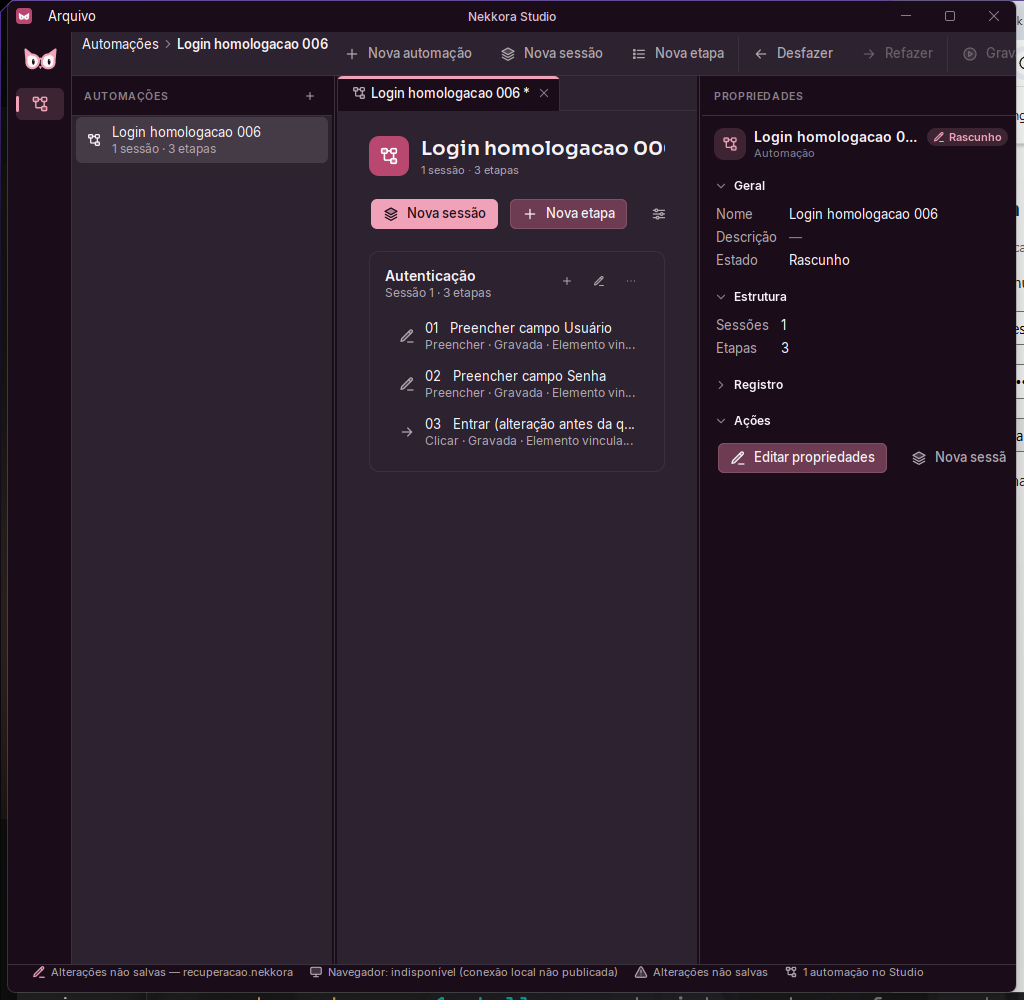
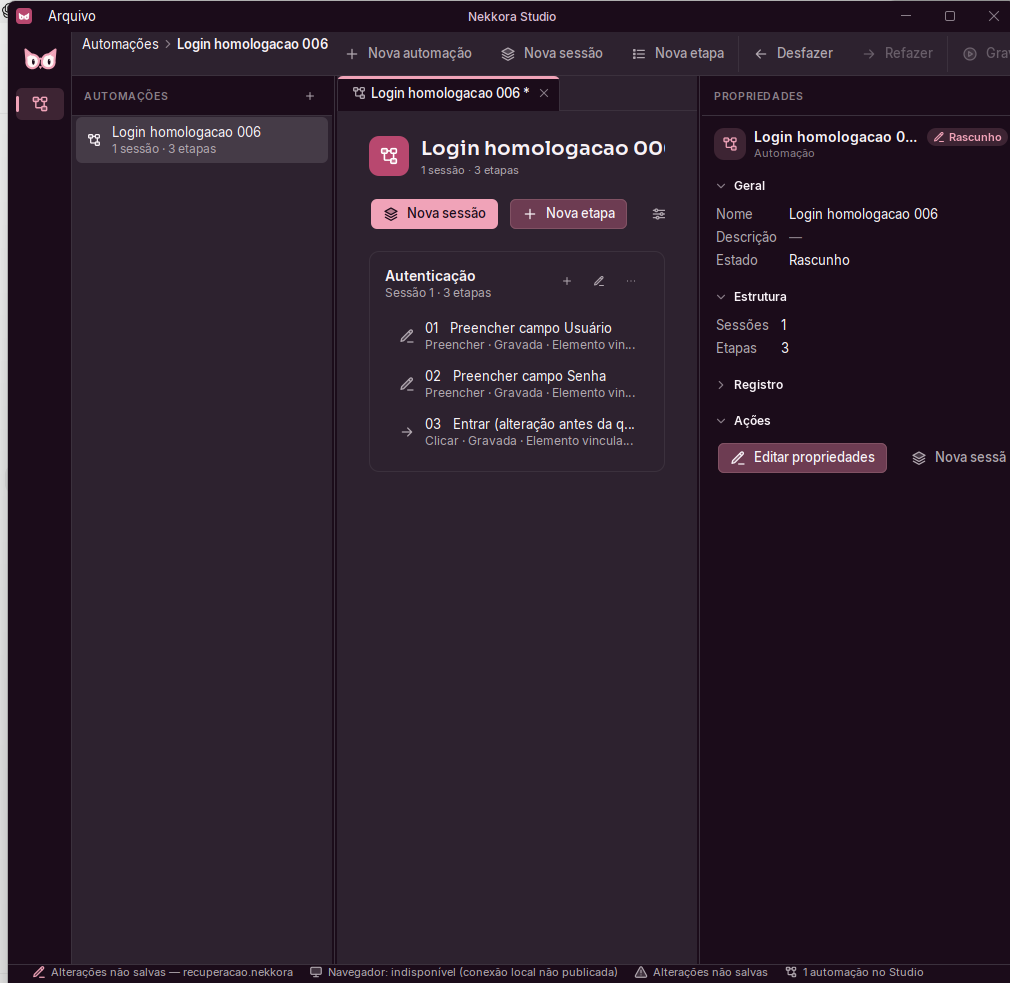
STUDIO-006 revisão 1: relatório (§22), docs e evidências da regressão final em db0e757
Windows 426/426; Linux 425 + 1 pulado (superusuário); homologação real 74/74
com encerramento real (Sair → Descartar, salvar e sair, reinício sem oferta).
Golden screenshots não regenerados; formato .nekkora inalterado. Capturas de
tela inteira recortadas para excluir a área de trabalho atrás do Studio.

diff --git a/reports/studio-006-final-report.md b/reports/studio-006-final-report.md
@@ -8,7 +8,7 @@
 | Branch | `feat/nekkora-studio-006` |
 | Baseline | `3dc6035cb6b9d80de04b48d640d4b868b213491d` (main, PRs #7 da CHROME-SECURITY-001 integrados) |
 | Extensão usada | árvore idêntica à `main` `2c7c06b` (checkout local em `e4a30aa`, `git diff e4a30aa 2c7c06b` vazio); **nenhuma alteração na extensão** |
-| Commit de código testado | `d2e0eec` (ver §17 e §18 para cada resultado) |
+| Commit de código testado | `db0e757` depois da revisão 1 do PR #8 (§22); a entrega original foi testada em `d2e0eec` (§17 e §18) |
 | Dados reais | **não utilizados** (D-S006-18); só páginas fictícias do laboratório local |
 | Merge | **não feito** — PR para revisão independente |
 
@@ -23,7 +23,11 @@ Commits da missão:
 | `cd9134d` | contrato versionado: schema, fixtures válidas congeladas e 18 inválidas |
 | `3ddff58` | barra de status sem sobreposição (defeito da homologação), rótulos "em memória", homologação real, README |
 | `d2e0eec` | teste de somente leitura declara a inaplicabilidade como superusuário (Linux em contêiner roda como root) |
-| (docs) | `docs/studio-006/` e este relatório |
+| `946ec7f` | `docs/studio-006/`, este relatório e as evidências |
+| `a864089` | **revisão 1**: recarregar transacional (P1-A), limpeza da recuperação antes de informar sucesso ou encerrar (P1-B), Salvar como confere o destino confirmado (P2) |
+| `a27f81f` | revisão 1: homologação real do encerramento (Sair → Descartar, salvar e sair, reinício sem oferta) |
+| `db0e757` | revisão 1: aviso "Encerrando o Studio" só quando o encerramento realmente espera (achado da homologação) |
+| (docs) | revisão 1: este relatório (§22), `docs/studio-006/` e evidências atualizados |
 
 ---
 
@@ -152,6 +156,8 @@ arquivo). [performance.md](../docs/studio-006/performance.md).
 
 ## 17. Testes
 
+> Resultados da **entrega original** (`d2e0eec`). Os resultados finais, depois da revisão 1, estão na §22.
+
 ### Regressão
 
 | Execução | Commit | Resultado |
@@ -208,6 +214,9 @@ Os 80 casos, cada um com o teste automatizado e/ou o passo da homologação que 
 
 ## 18. Homologação real
 
+> Execução da **entrega original** (`d2e0eec`, 60 verificações). A execução final, com 74 verificações em `db0e757`,
+> está na §22; as evidências em `reports/studio-006/evidence/` são as dessa execução final.
+
 Execução final: **60 verificações, 0 falhas**, sobre o build de `d2e0eec` (Windows 11, tela 1920×1032, JDK 21.0.12,
 Chrome for Testing 155.0.8059.39, extensão com árvore da `main` `2c7c06b`, Native Host instalado pelo script oficial
 `install-host.ps1`, laboratório local fictício `/lab/studio005/login-erro.html`). Diretório de dados e Bridge isolados
@@ -260,3 +269,88 @@ sem criptografia nem assinatura; textos do usuário podem conter dados pessoais;
 - Itens da SECURITY-RELEASE-001 continuam abertos (dados reais não liberados).
 
 Nenhuma funcionalidade da STUDIO-007 foi iniciada.
+
+## 22. Revisão 1 do PR #8
+
+A revisão técnica aprovou arquitetura, formato, reconstrução, evidências e privacidade e apontou dois P1 e um P2. Regra
+adotada: **uma operação de salvamento, descarte ou recarregamento não informa sucesso nem destrói o estado anterior
+antes de concluir as suas garantias de integridade.** O formato `.nekkora` não mudou (schema e fixtures 1.0.0 intactos).
+
+### Reprodução antes da correção
+
+Os testes novos foram escritos primeiro e executados sobre o código de `d2e0eec` (HEAD `946ec7f`, só documentação
+depois). Todos falharam pelo motivo apontado:
+
+| Ponto | Teste | Falha observada em `d2e0eec` |
+|---|---|---|
+| P1-A | `ProjectStudioTest.p1aRecarregarRecusadoPreservaWorkspace` | "A continua no workspace": esperado `[Consulta de Clientes, Cadastro de Produtos]`, obtido `[Cadastro de Produtos]` |
+| P1-A | `ProjectStudioTest.p1aRecarregarESalvarNaoSeSobrepoem` | recarregar durante um salvamento abriu a pergunta "Recarregar do arquivo?" |
+| P1-B A | `ProjectStudioTest.p1bDescartarESair` | "não encerra enquanto a limpeza não terminou": esperado 0 encerramentos, obtido 1 |
+| P1-B B | `ProjectStudioTest.p1bSalvarESairImediatamente` | sucesso informado com a fotografia superada (`…-g5.nekkora`) ainda no disco |
+| P1-B | `ProjectStudioTest.p1bFalhaAoApagarRecuperacao` | o aviso de sucesso não mencionava a fotografia não apagada |
+| P1-B | `ProjectRecoveryTest.superadaPorSalvamentoConfirmado` | fotografia anterior a um salvamento confirmado posterior foi oferecida |
+| P2 | `ProjectStudioTest.p2SobrescritaAlteradaDepoisDaConfirmacao` | esperado `CONFLICT`, obtido `SAVED`: a versão gravada por outro programa depois da confirmação foi sobrescrita |
+
+As corridas são reproduzidas com **barreiras controladas** nas `FileOps` de teste (gravação, leitura ou exclusão
+retidas por latch, ou exclusão com falha injetada), nunca só com `Thread.sleep`. Nos cenários de encerramento, o
+diretório de dados é copiado **no instante** em que o Studio encerraria a JVM, e outro Studio é aberto sobre essa
+cópia: é exatamente o que um novo processo encontraria.
+
+### Correções
+
+| Ponto | Correção |
+|---|---|
+| P1-A | `AutomationCatalog.replace` valida identidade e nome único **antes** de trocar e troca na mesma posição; `ProjectService.reload` só descarta o estado anterior (aba, histórico, estado, fotografias) depois da admissão. Qualquer recusa preserva automação, alterações não salvas, seleção, histórico, arquivo e recuperação. Recarregar é recusado durante salvamento ou outro recarregamento do mesmo projeto, sem perguntar nada; salvar, fechar e recarregar esperam um recarregamento em andamento (`ProjectState.reloading`) |
+| P1-B | As fotografias superadas por um salvamento são apagadas no **mesmo trabalho do worker**, antes de "Projeto salvo"; uma falha vira aviso honesto e nova tentativa ao sair. Todo trabalho de disco fica registrado; Sair espera por ele **sem bloquear a EDT**, apaga as fotografias devidas e só então encerra; durante a espera aparece "Encerrando o Studio" e um segundo Sair não abre outra pergunta. Se a exclusão falhar, o Studio pergunta "Sair mesmo assim?" e explica que as fotografias poderão ser oferecidas. As alterações descartadas não são fotografadas de novo. `ProjectRecovery.discard/discardAll/clear` informam o resultado e apagam pelas `FileOps`; a varredura não oferece (e apaga) fotografia anterior a um salvamento confirmado posterior do arquivo de origem (comparação estrita; o conteúdo-base nunca conta como superação; na dúvida, oferece) |
+| P2 | Salvar como sobre arquivo existente lê a impressão digital do destino fora da EDT **antes** da confirmação e a passa como `expected`: o repositório a confere antes e de novo imediatamente antes da troca. Alteração, substituição ou remoção depois da confirmação = conflito com a mensagem "foi alterado por outro programa depois da sua confirmação"; nada é sobrescrito. `overwrite` sem `expected` fica só para arquivos do próprio Studio (fotografias de nome único) |
+
+Achado da homologação desta revisão, corrigido em `db0e757`: o aviso "Encerrando o Studio" aparecia também durante um
+"Salvar todos" que acabava falhando, ao lado de "O Studio continua aberto". Agora ele só aparece quando a espera pelo
+trabalho de disco realmente acontece; a homologação confere a ausência dele na falha.
+
+Detalhes: [conflict-handling.md](../docs/studio-006/conflict-handling.md), [recovery.md](../docs/studio-006/recovery.md),
+[decisions.md](../docs/studio-006/decisions.md) (R1-01 a R1-07), [test-plan.md](../docs/studio-006/test-plan.md) e
+[known-limitations.md](../docs/studio-006/known-limitations.md) (L16 a L18).
+
+### Regressão final
+
+| Execução | Commit | Resultado |
+|---|---|---|
+| Testes novos do app (6) repetidos 10 vezes seguidas | `a864089` (antes do commit, mesmo código) | 10/10 rodadas sem falha |
+| Windows 11, `./mvnw clean verify` (Bridge e dados isolados) | `a864089` | 426/426, BUILD SUCCESS |
+| Linux de referência, `tools/golden-linux.sh verify` | `a864089` | 426 executados: 425 aprovados + 1 pulado (superusuário), BUILD SUCCESS |
+| Windows 11, `./mvnw clean verify` | **`db0e757`** | **426/426**, 0 pulados, BUILD SUCCESS |
+| Linux de referência, `tools/golden-linux.sh verify` | **`db0e757`** | **426 executados: 425 aprovados + 1 pulado** (a mesma *assumption* de superusuário da §17), BUILD SUCCESS |
+| Homologação real (Windows, Chrome for Testing 155.0.8059.39, extensão da `main`, Native Host instalado) | `a864089` + roteiro de `a27f81f` | 73/73 |
+| Homologação real | **`db0e757`** | **74/74**, 0 falhas |
+
+Por módulo (`db0e757`, iguais nos dois sistemas): tokens 24, swing-ui 47, showcase 5, domínio 93 (+1), bridge 22,
+recorder 62, persistência 44 (+2), studio-ui 14, app 114 (+6), escala 150% 1. Total 426 = 417 da entrega original + 9
+novos. Nenhum teste anterior foi removido ou afrouxado; o único ajuste em código de teste existente foi na
+infraestrutura (`Ops` com barreiras por filtro e falha de exclusão injetável; gancho no instante do encerramento).
+
+- **Golden screenshots**: 4/4 no Windows e no Linux, **sem regenerar** nenhuma imagem.
+- **Matriz S006**: os 80 casos continuam cobertos e passaram nas execuções acima.
+- **Extensão**: nenhuma alteração (árvore idêntica à `main` `2c7c06b`, sem alterações locais); suítes da extensão não
+  repetidas pelo mesmo motivo da §17; a integração real foi exercitada de novo na homologação.
+
+### Homologação real: o que entrou
+
+Os seis cenários da §18 foram repetidos, mais três processos REAIS do Studio que terminam por `System.exit` (como a
+aplicação), no mesmo diretório de dados do cenário 5:
+
+| Fase | O que foi feito | Resultado |
+|---|---|---|
+| Sair → Descartar | abre o projeto, altera, grava uma fotografia; Arquivo → Sair → **Descartar alterações** no diálogo real (captura `S006-17`) | no instante do encerramento, 0 fotografias no disco; processo terminou com código 0; arquivo do projeto com o mesmo SHA-256 |
+| Salvar e sair | abre, altera, grava uma fotografia; **Ctrl+S** e, assim que o salvamento é informado, Arquivo → Sair | no instante em que o sucesso é informado, a fotografia superada já não existe; 0 no encerramento; o arquivo tem a alteração |
+| Novo processo | abre o Studio no mesmo diretório de dados e espera 10 s (captura `S006-18`) | nenhuma oferta de recuperação; nada aberto |
+| Falha no Salvar todos | (cenário 4) | "O Studio continua aberto" e nenhum "Encerrando o Studio" |
+
+Capturas: as de tela inteira foram recortadas para excluir a faixa inferior da área de trabalho, e as dos processos
+filhos para a área da janela do Studio. Na execução final, essa faixa mostrava conteúdo pessoal de outra janela atrás do
+Studio. Nenhuma outra edição foi feita nas imagens.
+
+### Restrições mantidas
+
+Sem merge. STUDIO-007 não iniciada. Recorder continua sem liberação para dados reais (homologação só com o laboratório
+fictício). Formato `.nekkora` inalterado.

diff --git a/docs/studio-006/recovery.md b/docs/studio-006/recovery.md
@@ -32,7 +32,9 @@ Só com consentimento, para cada automação com alterações **ainda não fotog
 - a cada intervalo configurado (temporizador Swing);
 - quando a janela do Studio perde o foco (ponto relevante do ciclo de vida).
 
-Não fotografa durante uma gravação sem quiescência nem durante um salvamento. A fotografia usa o **mesmo formato
+Não fotografa durante uma gravação sem quiescência, durante um salvamento nem durante um recarregamento. Depois que o
+usuário escolhe **Descartar alterações**, as alterações descartadas não são fotografadas de novo (só alterações feitas
+depois da decisão). A fotografia usa o **mesmo formato
 validado** (`kind=RECOVERY`, com `recoveryOf` = arquivo de origem e o tamanho/SHA-256 dele naquele momento), a mesma
 gravação atômica e a mesma releitura completa. Mantém só as 3 mais recentes por automação.
 
@@ -64,6 +66,12 @@ Recuperar não altera esse arquivo; salve depois para confirmar.
 
 Uma automação já aberta não é oferecida. Nada é restaurado em silêncio.
 
+**Fotografia superada** (revisão 1): se o arquivo de origem existe, é um projeto válido da mesma automação, não é o
+conteúdo-base da fotografia e foi salvo **estritamente depois** dela, a fotografia (e as anteriores a ela) é apagada e
+**não é oferecida**: uma recuperação antiga nunca é apresentada como mais recente que o estado confirmado. Na dúvida
+(origem desconhecida, ilegível, de outra automação ou com o mesmo instante), ela continua oferecida — esconder
+alterações mais novas seria pior. Teste: `ProjectRecoveryTest.superadaPorSalvamentoConfirmado`.
+
 ## Depois de recuperar
 
 - Continua **não salvo** até o usuário salvar.
@@ -73,13 +81,38 @@ Uma automação já aberta não é oferecida. Nada é restaurado em silêncio.
 
 ## Quando as fotografias são apagadas
 
-| Evento | Apaga |
-|---|---|
-| salvamento confirmado | as fotografias daquela automação até a geração gravada |
-| Sair → Descartar alterações / Fechar projeto → Descartar | as fotografias da automação descartada |
-| "Apagar agora…" no diálogo | todas |
-| retenção | fotografias com mais de 7 dias, na varredura |
-| mais de 3 por automação | as mais antigas |
+| Evento | Apaga | Quando o resultado é informado |
+|---|---|---|
+| salvamento confirmado | as fotografias daquela automação até a geração gravada | no mesmo trabalho do worker, **antes** de "Projeto salvo"; se falhar, o aviso diz que uma fotografia antiga não pôde ser apagada e o Studio tenta de novo ao sair |
+| Sair → Descartar alterações | as fotografias das automações descartadas | o Studio **só encerra depois** de apagá-las (ver abaixo) |
+| Fechar projeto → Descartar / Recarregar do arquivo | as fotografias da automação | depois do trabalho de disco em andamento; falha = aviso e nova tentativa ao sair |
+| "Apagar agora…" no diálogo | todas | falha = aviso |
+| varredura ao abrir | as superadas por um salvamento confirmado posterior | não são oferecidas |
+| retenção | fotografias com mais de 7 dias, na varredura | — |
+| mais de 3 por automação | as mais antigas | — |
+
+As exclusões passam pelas `FileOps` do repositório e **informam o resultado**: `discard`, `discardAll` e `clear` devolvem
+`true` só se nenhuma fotografia visada restou.
+
+## Encerramento (revisão 1, P1-B)
+
+Sair nunca encerra a JVM com trabalho de disco pendente:
+
+1. com alterações não salvas, o usuário escolhe Salvar todos / Descartar / Cancelar;
+2. o Studio espera — **sem bloquear a EDT** — todo trabalho de disco registrado (salvamentos, fotografias em gravação,
+   limpezas) e então apaga, no worker, as fotografias devidas (descartadas, ou superadas por salvamentos cuja limpeza
+   tinha falhado);
+3. enquanto espera, mostra "Encerrando o Studio"; um segundo pedido de Sair não abre outra pergunta;
+4. só então a aplicação continua o encerramento (guarda da gravação técnica, Bridge, `System.exit`);
+5. se alguma exclusão falhar, o Studio **não** afirma que limpou: pergunta "Fotografias de recuperação não apagadas —
+   Sair mesmo assim?", explicando que elas poderão ser oferecidas na próxima abertura. Cancelar mantém o Studio aberto
+   com as alterações.
+
+Testes com barreira controlada (sem depender de `Thread.sleep`): `ProjectStudioTest.p1bDescartarESair` (uma fotografia
+retida no worker quando o usuário pede Sair; o disco é copiado **no instante** em que o Studio encerraria e outro Studio
+é aberto sobre essa cópia — nada é oferecido), `p1bSalvarESairImediatamente` (a fotografia de outra automação retém o
+worker logo depois do salvamento; a fotografia anterior ao salvamento já não existe quando o sucesso é informado) e
+`p1bFalhaAoApagarRecuperacao`.
 
 ## Homologação real (cenário 5)
 

diff --git a/docs/studio-006/conflict-handling.md b/docs/studio-006/conflict-handling.md
@@ -17,7 +17,12 @@ Não há merge automático. A leitura também confere que o arquivo não mudou *
 
 ## Salvar como sobre um arquivo existente
 
-Pede confirmação "Substituir arquivo?" (perigo). Sem confirmação, nada é gravado. Um arquivo que já é o projeto aberto
+Pede confirmação "Substituir arquivo?" (perigo). Sem confirmação, nada é gravado. A confirmação vale para o conteúdo
+que existe **naquele momento** no destino (revisão 1, P2): a impressão digital do destino é lida fora da EDT antes da
+pergunta e conferida de novo imediatamente antes da troca. Se outro programa alterar, substituir ou remover o arquivo
+depois da confirmação, é conflito — nada é sobrescrito, a mensagem diz que o arquivo mudou depois da confirmação e as
+alterações continuam abertas. Teste: `ProjectStudioTest.p2SobrescritaAlteradaDepoisDaConfirmacao` (alteração externa
+feita enquanto o temporário é gravado, entre a confirmação e a troca). Um arquivo que já é o projeto aberto
 de outra automação é recusado ("Arquivo em uso por outro projeto").
 
 ## Mesmo projeto aberto duas vezes (§26)
@@ -39,5 +44,24 @@ conta como encerramento. Teste: `RecorderStepsStudioTest.s006060Quiescencia`.
 Um segundo Salvar da mesma automação durante a gravação do primeiro é recusado ("Salvamento em andamento"). Edições
 continuam permitidas; a geração editada durante o salvamento continua pendente depois dele.
 
-Testes: `AtomicSaveTest` S006-041; `ProjectStudioTest` S006-040, S006-041 (dois), S006-066, S006-067;
+## Recarregar do arquivo (revisão 1, P1-A)
+
+Transacional do ponto de vista do workspace:
+
+1. não começa durante um salvamento ou outro recarregamento do mesmo projeto (nem pergunta nada), nem durante uma
+   gravação sem quiescência;
+2. o arquivo é lido e validado no worker (mesma leitura integral da abertura, exigindo a mesma `AutomationId`);
+   enquanto isso, Salvar, Salvar como, Fechar projeto e um novo Recarregar daquele projeto são recusados ("em andamento");
+3. na EDT, a substituta precisa ser **admitida** pelo catálogo — `AutomationCatalog.replace` confere identidade e nome
+   único **antes** de trocar e troca na mesma posição;
+4. só depois disso o estado anterior é descartado (aba reaberta, histórico vazio, estado "Salvo", fotografias de
+   recuperação das alterações descartadas apagadas).
+
+Qualquer recusa (arquivo inválido, outra automação, nome em uso por outro projeto aberto, gravação iniciada durante a
+leitura, projeto fechado) deixa automação, alterações não salvas, seleção, histórico, arquivo associado e recuperação
+**exatamente como estavam**, com o aviso "Não foi possível recarregar … O projeto aberto não mudou". Testes:
+`ProjectStudioTest.p1aRecarregarRecusadoPreservaWorkspace` (dois projetos abertos; o arquivo de A passa a ter o nome de
+B) e `p1aRecarregarESalvarNaoSeSobrepoem`; domínio: `AutomationRestorationTest.substituirNoCatalogo`.
+
+Testes: `AtomicSaveTest` S006-041; `ProjectStudioTest` S006-040, S006-041 (dois), S006-066, S006-067, `p1a*`, `p2*`;
 homologação cenário 4.

diff --git a/docs/studio-006/test-plan.md b/docs/studio-006/test-plan.md
@@ -92,6 +92,26 @@ Legenda: **A** automatizado (roda em `./mvnw verify`), **H** homologação real 
 | S006-079 | Integração com extensão | `RecorderStepsStudioTest` S006-060/079; homologação (gravação real, salvar, reabrir) | A H |
 | S006-080 | Nenhuma execução de automação ao carregar | `ProjectStudioTest`; homologação (Recorder livre, SHA igual) | A H |
 
+## Revisão 1 do PR #8 (reproduzir primeiro, corrigir depois)
+
+Cada teste abaixo foi executado **antes** da correção, no código de `d2e0eec` (HEAD `946ec7f`), e falhou pelo motivo
+apontado na revisão; depois da correção (`a864089`) passa. As barreiras são controladas (latch nas `FileOps` de teste:
+gravação, leitura ou exclusão retidas ou com falha), nunca só `Thread.sleep`.
+
+| Item | Teste | Antes da correção (`d2e0eec`) | Depois |
+|---|---|---|---|
+| P1-A | `ProjectStudioTest.p1aRecarregarRecusadoPreservaWorkspace` | A sumiu do workspace (catálogo só com B) | workspace idêntico: mesma automação, alterações, estado, arquivo, seleção, abas e histórico |
+| P1-A | `ProjectStudioTest.p1aRecarregarESalvarNaoSeSobrepoem` | recarregar durante o salvamento perguntou "Recarregar do arquivo?" | `BUSY` sem perguntar; salvar/fechar/recarregar durante a recarga = `BUSY` |
+| P1-A | `AutomationRestorationTest.substituirNoCatalogo` | (método novo) | recusa sem mudar nada; troca na mesma posição |
+| P1-B A | `ProjectStudioTest.p1bDescartarESair` | o Studio encerrou com a fotografia ainda sendo gravada | só encerra depois da limpeza; outro Studio sobre o disco do instante do encerramento não oferece nada |
+| P1-B B | `ProjectStudioTest.p1bSalvarESairImediatamente` | sucesso informado com a fotografia superada ainda no disco | apagada antes do sucesso; nada oferecido depois de sair |
+| P1-B | `ProjectStudioTest.p1bFalhaAoApagarRecuperacao` | aviso de sucesso sem mencionar a falha | aviso honesto; Sair pergunta antes; Cancelar mantém o Studio aberto |
+| P1-B | `ProjectRecoveryTest.superadaPorSalvamentoConfirmado` | fotografia anterior ao salvamento oferecida | não oferecida e apagada; a mais nova que o salvamento continua oferecida |
+| P1-B | `ProjectRecoveryTest.descarteInformaFalha` | (API nova: `discard` devolve o resultado) | `false` enquanto a exclusão falha |
+| P2 | `ProjectStudioTest.p2SobrescritaAlteradaDepoisDaConfirmacao` | `SAVED`: a versão do outro programa foi sobrescrita | `CONFLICT`, nada sobrescrito; sem mudança externa, substitui normalmente |
+
+Estabilidade: os 6 testes novos do app rodaram 10 vezes seguidas sem falha.
+
 ## Contrato do formato
 
 `ProjectFormatContractTest`: schema 1.0.0 igual ao código (vocabulários e constantes); fixtures válidas congeladas

diff --git a/docs/studio-006/decisions.md b/docs/studio-006/decisions.md
@@ -34,3 +34,18 @@
 | I-S006-07 | Diretório de dados: propriedade `nekkora.studio.dataDir` > `NEKKORA_STUDIO_DATA_DIR` > padrão do sistema | testes e homologação isolados da instalação pessoal; testes sem diretório usam `inMemory` |
 | I-S006-08 | `NekkoraStatusBar` em linha única sem sobreposição | defeito encontrado na homologação: com 870 px (ou 1366×768 a 150%) textos se sobrepunham |
 | I-S006-09 | Item "Navegador" da barra de status logo depois da situação do projeto | em janela estreita saem primeiro os itens menos importantes (tema, recuperação) |
+
+## Decisões da revisão 1 do PR #8
+
+Regra geral: **uma operação de salvamento, descarte ou recarregamento não informa sucesso nem destrói o estado anterior
+antes de concluir as suas garantias de integridade.**
+
+| Id | Decisão | Motivo |
+|---|---|---|
+| R1-01 | Recarregar troca a automação com `AutomationCatalog.replace`, que valida identidade e nome antes de trocar (mesma posição); o estado anterior só é descartado depois da admissão | P1-A: remover antes de admitir fazia a automação sumir quando a substituta era recusada (nome em conflito) |
+| R1-02 | Recarregar é recusado durante salvamento/recarregamento do mesmo projeto; salvar, fechar e recarregar esperam um recarregamento em andamento (`ProjectState.reloading`) | P1-A: operações sobre o mesmo arquivo não se sobrepõem |
+| R1-03 | As fotografias superadas por um salvamento são apagadas no MESMO trabalho do worker, antes de "Projeto salvo"; falha vira aviso e dívida refeita ao sair | P1-B: o processo podia encerrar antes da limpeza agendada |
+| R1-04 | Todo trabalho de disco é registrado; Sair espera por ele (sem bloquear a EDT) e só encerra depois de apagar as fotografias devidas; falha = pergunta "Sair mesmo assim?" | P1-B: Descartar e sair podia deixar fotografias que seriam oferecidas de novo |
+| R1-05 | A varredura não oferece (e apaga) fotografia anterior a um salvamento confirmado posterior do arquivo de origem; comparação estrita do instante, e o conteúdo-base nunca conta como superação | P1-B: defesa adicional quando a limpeza não chegou a acontecer (queda, falha de exclusão); na dúvida, oferecer |
+| R1-06 | Salvar como sobre arquivo existente lê a impressão digital do destino antes da confirmação e a confere antes da troca (`expected`); `overwrite` sem `expected` fica só para arquivos do próprio Studio | P2: alteração externa posterior à confirmação era sobrescrita em silêncio |
+| R1-07 | Formato `.nekkora` **não mudou** (schema e fixtures 1.0.0 intactos) | as correções são de comportamento, não de contrato |

diff --git a/docs/studio-006/known-limitations.md b/docs/studio-006/known-limitations.md
@@ -17,3 +17,6 @@
 | L13 | Logs técnicos vão para o `java.util.logging` padrão (console) | não há arquivo de log próprio do Studio | sem conteúdo nem caminhos (§32) |
 | L14 | A medição de memória é por diferença de heap | valor aproximado | suficiente para ordem de grandeza |
 | L15 | A homologação real abriu o Studio da recuperação com o navegador **desligado** (processo filho) | o cenário 5 não usa a extensão | a recuperação não depende do navegador (D-S006-16); a integração com a extensão está nos cenários 1–3 e 6 |
+| L16 | Uma **queda do processo** (não um Sair) entre a troca do arquivo e a exclusão das fotografias superadas, no PRIMEIRO salvamento de um projeto novo, deixa uma fotografia sem arquivo de origem registrado | ela pode ser oferecida na próxima abertura | a janela é o intervalo entre a troca e a exclusão no mesmo trabalho do worker; com arquivo de origem conhecido, a varredura reconhece a fotografia superada (R1-05); o usuário pode escolher Ignorar |
+| L17 | A superação na varredura compara instantes de forma **estrita** | fotografia e salvamento no mesmo milissegundo não contam como superação | escolha conservadora: na dúvida a fotografia é oferecida, nunca escondida (R1-05) |
+| L18 | Se a exclusão das fotografias falhar ao sair, o usuário pode sair mesmo assim | as fotografias ficam e podem ser oferecidas na próxima abertura | o Studio pergunta e explica antes; nunca afirma que limpou |
